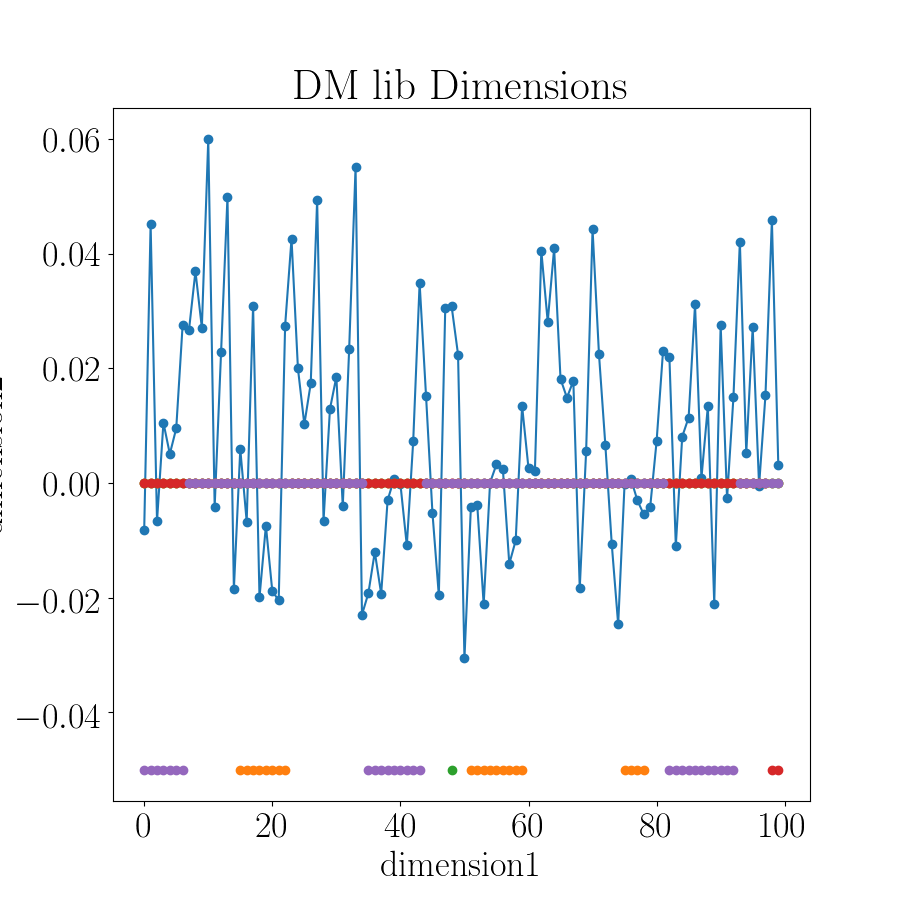
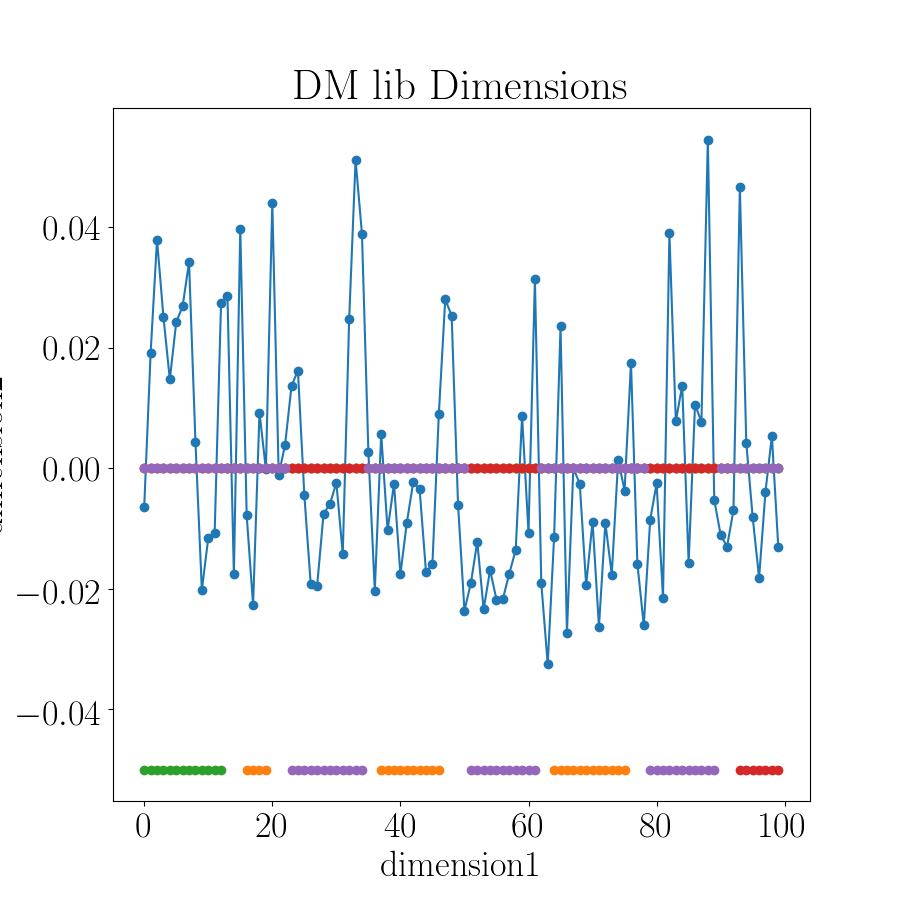
pfc

diff --git a/core/diffusion_lib_pfc.py b/core/diffusion_lib_pfc.py
@@ -155,11 +155,11 @@ for i in range(0,rng):
 
 fig = plt.figure(figsize=(9,9))
 ax = plt.subplot(111)
-ax.plot(coords[:, 0][200:300], 'o-', label="Target neurons")
-ax.plot(cornerIdx1[200:300], 'o', label="Corner1")
-ax.plot(cornerIdx2[200:300], 'o', label="Corner2")
-ax.plot(cornerIdx3[200:300], 'o', label="Corner3")
-ax.plot(cornerIdx4[200:300], 'o', label="Corner4")
+ax.plot(coords[:, 0][400:500], 'o-', label="Target neurons")
+ax.plot(cornerIdx1[400:500], 'o', label="Corner1")
+ax.plot(cornerIdx2[400:500], 'o', label="Corner2")
+ax.plot(cornerIdx3[400:500], 'o', label="Corner3")
+ax.plot(cornerIdx4[400:500], 'o', label="Corner4")
 plt.title('DM lib Dimensions')
 plt.xlabel('dimension1')
 plt.ylabel('dimension2')
@@ -169,11 +169,11 @@ plt.savefig('../results/21/1/pfc/dmev1_overlap_200.png')
 
 fig = plt.figure(figsize=(9,9))
 ax = plt.subplot(111)
-ax.plot(coords[:, 1][200:300], 'o-', label="Target neurons")
-ax.plot(cornerIdx1[200:300], 'o', label="Corner1")
-ax.plot(cornerIdx2[200:300], 'o', label="Corner2")
-ax.plot(cornerIdx3[200:300], 'o', label="Corner3")
-ax.plot(cornerIdx4[200:300], 'o', label="Corner4")
+ax.plot(coords[:, 1][400:500], 'o-', label="Target neurons")
+ax.plot(cornerIdx1[400:500], 'o', label="Corner1")
+ax.plot(cornerIdx2[400:500], 'o', label="Corner2")
+ax.plot(cornerIdx3[400:500], 'o', label="Corner3")
+ax.plot(cornerIdx4[400:500], 'o', label="Corner4")
 plt.title('DM lib Dimensions')
 plt.xlabel('dimension1')
 plt.ylabel('dimension2')
